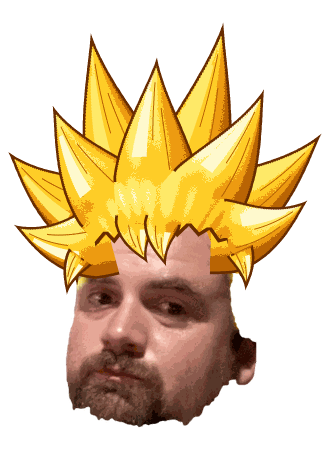
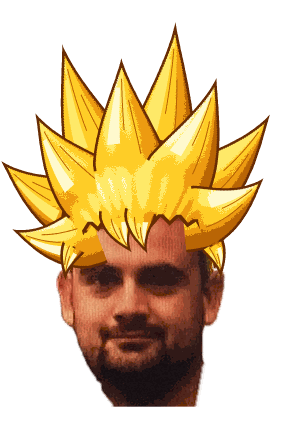
FAM JAM v72: Ramsey's new photo
- Ramsey's head is the new photo the owner sent: the scanner stripes
  filtered out of it (a per-row low-pass above 0.3 cycles/px, both of
  the stripe patterns), a bit of neck trimmed, the color toned to sit
  with the others; headScale, mouth point and gold-hair offsets to
  match, and new gold power-up heads front and back.
- His body re-rendered in a skin tone matching the new face.
- Sprite/face version tag ?v=35 (the faces are replaced under the same
  names) and code tags v=72.

Claude-Session: https://claude.ai/code/session_01ToiDsSQnaqBjUawR2EXcU4

diff --git a/famjam/js/data.js b/famjam/js/data.js
@@ -30,7 +30,7 @@ window.HW = window.HW || {};
     justin:  { id: 'justin',  name: 'Justin Stowell',   first: 'Justin',  team: 2, type: 'strength', num: 8,  color: '#5a189a', skin: '#d8987a', hair: '#5a4535', hairStyle: 'short', photo: true, headScale: 0.94, brow: '#4a3628', height: 1.86, bulk: 1.28, stats: { speed: 5, tp: 3, dunk: 6, steal: 5, block: 8, str: 10, pass: 4 } },
     // Joseph George (team 3): Zach, Ramsey, Jake, Morgan
     zach:    { id: 'zach',    name: 'Zach',             first: 'Zach',    team: 3, type: 'handler',  num: 5,  color: '#2ecc40', skin: '#d9a48a', hair: '#3a2a20', hairStyle: 'short', photo: true, headScale: 1.11, brow: '#3a2a20', height: 1.80, bulk: 1.05, stats: { speed: 10, tp: 5, dunk: 4, steal: 9, block: 3, str: 3, pass: 10 } },
-    ramsey:  { id: 'ramsey',  name: 'Ramsey',           first: 'Ramsey',  team: 3, type: 'strength', num: 42, color: '#196f3d', skin: '#e2a48a', hair: '#2a201c', hairStyle: 'short', photo: true, headScale: 1.01, brow: '#2a201c', height: 1.86, bulk: 1.3,  stats: { speed: 5, tp: 3, dunk: 6, steal: 5, block: 8, str: 10, pass: 4 } },
+    ramsey:  { id: 'ramsey',  name: 'Ramsey',           first: 'Ramsey',  team: 3, type: 'strength', num: 42, color: '#196f3d', skin: '#d4987c', hair: '#2a201c', hairStyle: 'short', photo: true, headScale: 1.2,  brow: '#2a201c', height: 1.86, bulk: 1.3,  stats: { speed: 5, tp: 3, dunk: 6, steal: 5, block: 8, str: 10, pass: 4 } },
     jake:    { id: 'jake',    name: 'Jake',             first: 'Jake',    team: 3, type: 'dunker',   num: 24, color: '#8bc34a', skin: '#d69b80', hair: '#4a3a2e', hairStyle: 'short', photo: true, headScale: 0.94, brow: '#4a3a2e', height: 1.90, bulk: 1.22, stats: { speed: 7, tp: 3, dunk: 10, steal: 4, block: 6, str: 6, pass: 5 } },
     morgan:  { id: 'morgan',  name: 'Morgan',           first: 'Morgan',  team: 3, type: 'shooter',  num: 14, color: '#00a86b', skin: '#d8a084', hair: '#33261e', hairStyle: 'short', photo: true, headScale: 1.0,  brow: '#33261e', height: 1.84, bulk: 0.95, stats: { speed: 6, tp: 10, dunk: 3, steal: 4, block: 3, str: 4, pass: 6 } },
     // Flickinger (team 4): Sque, Cesar, Jahn, The Legend
@@ -86,7 +86,7 @@ window.HW = window.HW || {};
   // powered-up heads: faces/<id>_ssj.png (front) and faces/<id>_ssj_back.png (back of the head).
   // [x, y] = where the original image's top-left corner sits inside the bigger powered-up canvas, in original-image pixels
   // where each photo's mouth is (fraction of the photo across, down): the tongue on the free-throw-line dunk comes out here
-  HW.MOUTH = { carl: [0.50, 0.80], tyler: [0.50, 0.76], alan: [0.52, 0.74], lisa: [0.60, 0.82], bianca: [0.46, 0.78], katelyn: [0.58, 0.83], kameron: [0.47, 0.81], kody: [0.55, 0.77], kenny: [0.50, 0.79], karen: [0.60, 0.81], blair: [0.52, 0.75], rox: [0.56, 0.72], lindsay: [0.41, 0.74], trent: [0.52, 0.78], justin: [0.50, 0.73], zach: [0.57, 0.76], ramsey: [0.31, 0.80], jake: [0.57, 0.69], morgan: [0.35, 0.49], sque: [0.59, 0.82], cesar: [0.44, 0.81], jahn: [0.48, 0.77], legend: [0.62, 0.77] };
+  HW.MOUTH = { carl: [0.50, 0.80], tyler: [0.50, 0.76], alan: [0.52, 0.74], lisa: [0.60, 0.82], bianca: [0.46, 0.78], katelyn: [0.58, 0.83], kameron: [0.47, 0.81], kody: [0.55, 0.77], kenny: [0.50, 0.79], karen: [0.60, 0.81], blair: [0.52, 0.75], rox: [0.56, 0.72], lindsay: [0.41, 0.74], trent: [0.52, 0.78], justin: [0.50, 0.73], zach: [0.57, 0.76], ramsey: [0.42, 0.72], jake: [0.57, 0.69], morgan: [0.35, 0.49], sque: [0.59, 0.82], cesar: [0.44, 0.81], jahn: [0.48, 0.77], legend: [0.62, 0.77] };
   // and where the mouth is on a powered-up face that's a different photo from the normal one (Carl's scowl), same units
   HW.MOUTH_SSJ = { carl: [0.59, 0.72] };
   // a face for the slow-motion dunks (another photo: Carl's yell), from the slow motion until he lands: faces/<id>_dunk.png and,
@@ -109,7 +109,7 @@ window.HW = window.HW || {};
     trent: [60, 170],
     justin: [60, 165],
     zach: [63, 144],
-    ramsey: [65, 177],
+    ramsey: [53, 159],
     jake: [60, 171],
     morgan: [66, 162],
     sque: [66, 161],

diff --git a/famjam/index.html b/famjam/index.html
@@ -23,7 +23,7 @@
 <link rel="preconnect" href="https://fonts.googleapis.com">
 <link rel="preconnect" href="https://fonts.gstatic.com" crossorigin>
 <link href="https://fonts.googleapis.com/css2?family=Press+Start+2P&display=swap" rel="stylesheet">
-<link rel="stylesheet" href="css/jam.css?v=71">
+<link rel="stylesheet" href="css/jam.css?v=72">
 </head>
 <body>
 <canvas id="game"></canvas>
@@ -36,19 +36,19 @@
 </div>
 <div id="rotate"><div>&#x21bb;</div>TURN YOUR PHONE SIDEWAYS</div>
 <!-- ?v= on the code: bump it with every update, so a phone that kept an old copy of a file fetches the new one -->
-<script src="js/data.js?v=71"></script>
-<script src="js/audio.js?v=71"></script>
-<script src="js/font.js?v=71"></script>
-<script src="js/gfx.js?v=71"></script>
-<script src="js/crowd.js?v=71"></script>
-<script src="js/game.js?v=71"></script>
-<script src="js/ai.js?v=71"></script>
-<script src="js/replay.js?v=71"></script>
-<script src="js/net.js?v=71"></script>
-<script src="js/count.js?v=71"></script>
-<script src="js/presence.js?v=71"></script>
-<script src="js/notify.js?v=71"></script>
-<script src="js/ui.js?v=71"></script>
-<script src="js/main.js?v=71"></script>
+<script src="js/data.js?v=72"></script>
+<script src="js/audio.js?v=72"></script>
+<script src="js/font.js?v=72"></script>
+<script src="js/gfx.js?v=72"></script>
+<script src="js/crowd.js?v=72"></script>
+<script src="js/game.js?v=72"></script>
+<script src="js/ai.js?v=72"></script>
+<script src="js/replay.js?v=72"></script>
+<script src="js/net.js?v=72"></script>
+<script src="js/count.js?v=72"></script>
+<script src="js/presence.js?v=72"></script>
+<script src="js/notify.js?v=72"></script>
+<script src="js/ui.js?v=72"></script>
+<script src="js/main.js?v=72"></script>
 </body>
 </html>

diff --git a/famjam/js/gfx.js b/famjam/js/gfx.js
@@ -186,7 +186,7 @@ window.HW = window.HW || {};
 
   /* ---------- sprites ---------- */
   // bump when sprite sheets are re-rendered under the same names, so a phone fetches the new image and frame data together
-  var SHEET_V = '?v=34';   // (the faces carry it too)
+  var SHEET_V = '?v=35';   // (the faces carry it too)
   var sheets = {}, faces = {};
   X.loadPlayer = function (id) {
     if (sheets[id]) return sheets[id].ready;
